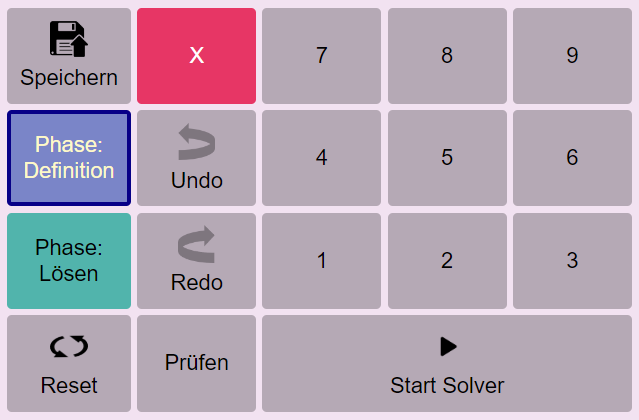
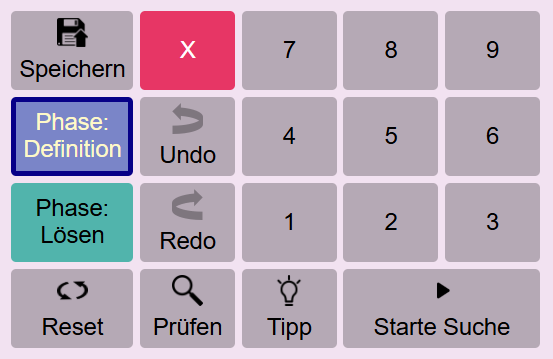
v247

diff --git a/sw.js b/sw.js
@@ -10,7 +10,7 @@ var APP_PREFIX = 'sudo_';
 // you need to change this version (version_01, version_02…). 
 // If you don't change the version, the service worker will give your
 // users the old files!
-var VERSION = 'version_746';
+var VERSION = 'version_747';
 
 // The files to make available for offline use. make sure to add 
 // others to this list

diff --git a/JS/sudokuCommon.js b/JS/sudokuCommon.js
@@ -1,5 +1,5 @@
 let sudoApp;
-let VERSION = 746;
+let VERSION = 747;
 
 // ==========================================
 // Basic classes

diff --git a/help.md b/help.md
@@ -15,7 +15,7 @@ layout: default
     - [Initialisieren](initialisieren)
     - [Zurücksetzen](#zurücksetzen)
     - [Undo/Redo](#undoredo)
-    - [Puzzle prüfen](#puzzle-prüfen)
+    - [Unterstützung der manuellen Lösung von Puzzles](#unterstützung-der-manuellen-lösung-von-puzzles)
     - [Puzzle speichern](#puzzle-speichern)
     - [Neues Puzzles generieren und laden](#neues-puzzles-generieren-und-laden)
     - [Puzzle drucken](#puzzle-drucken)
@@ -158,9 +158,14 @@ Die Operationen des Sudoku-Trainers werden über die Tasten und die seitliche Na
 
 **Taste: Redo.** Rücknahme des Undo.
 
-### Puzzle prüfen
+### Unterstützung der manuellen Lösung von Puzzles
 
 **Taste: Prüfen.** Die gesetzten Lösungsnummern werden geprüft. Wenn sie falsch gesetzt sind, werden sie als fehlerhaft gekennzeichnet. Diese Funktion ist dann nützlich, wenn man das Puzzle manuell lösen will und man vermutet, dass man bereits einen Fehler gemacht hat.
+
+**Taste: Tipp.** Wenn man bei der manuellen Lösung nicht mehr weiter weiss, kann man diese Taste nutzen. Durch das Drücken dieser Taste wird automatisch die Zelle in der Matrix selektiert, die der Solver bei der automatischen Lösung als nächste Zelle selektieren würde. Der Spieler hat dann zwei Möglichkeiten:
+
+1. Die vorgeschlagene Nummer in der Zelle setzen, oder
+1. Die Tipp-Taste erneut drücken. Dann wird die Selektion zurückgenommen.
 
 #### Puzzle speichern
 
@@ -207,7 +212,7 @@ Der Spieler kann im Dialog einen nicht leeren Schwierigkeitsgrad selektieren und
 {: style="text-align:center"}
 ![Spielmodus](./imagesHelp/einstellungSpielmodus.png){:max-width="75%"}
 
-Der Spielmodus "Manuelles Lösen", bewirkt, dass die Taste für den Solver-Start ausgeblendet wird. Der Spielmodus "Automatisches Lösen mit und ohne Haltepunkten" schalten sie wieder zu.
+Der Spielmodus "Manuelles Lösen", bewirkt, dass die Taste für den Solver-Start ausgeblendet wird. Der Spielmodus "Automatisches Lösen mit und ohne Haltepunkten" schaltet                                                         sie wieder zu.
 
 |Tastenauswahl Manuelles Lösen|Tastenauswahl Automatisches Lösen|
 |---------|---------|
@@ -270,7 +275,7 @@ Werkzeugeinstellung:
 
 Manuelles Lösen bedeutet, dass der Spieler die Lösungsnummern (grün) in den Zellen setzt. Will der Spieler sich der Herausforderung einer manuellen Lösungssuche ernsthaft stellen, verzichtet er auf jede Hilfe durch den Solver. Keine Kandidatenanzeige: denn sie würde ja die notwendigen Kandidaten anzeigen.
 
-Beim manuellen Lösen kann es passieren, dass eine Nummer falsch gesetzt wird. Viele Setzungen danach laufen in Abhängigkeit von dieser ersten Fehlersetzung Gefahr ebenfalls falsch gesetzt zu werden. Mit der Prüfen-Taste kann in diesem Fall geprüft werden, ob und welche bisherigen Setzungen bereits fehlerhaft sind.
+Beim manuellen Lösen kann es passieren, dass eine Nummer falsch gesetzt wird. Viele Setzungen danach laufen in Abhängigkeit von dieser ersten Fehlersetzung Gefahr, ebenfalls falsch gesetzt zu werden. Mit der Prüfen-Taste kann in diesem Fall geprüft werden, ob und welche bisherigen Setzungen bereits fehlerhaft sind.
 
 {: style="text-align:center"}
 ![Prüfen](./imagesHelp/pruefungfehler.png){: width="400px"}
